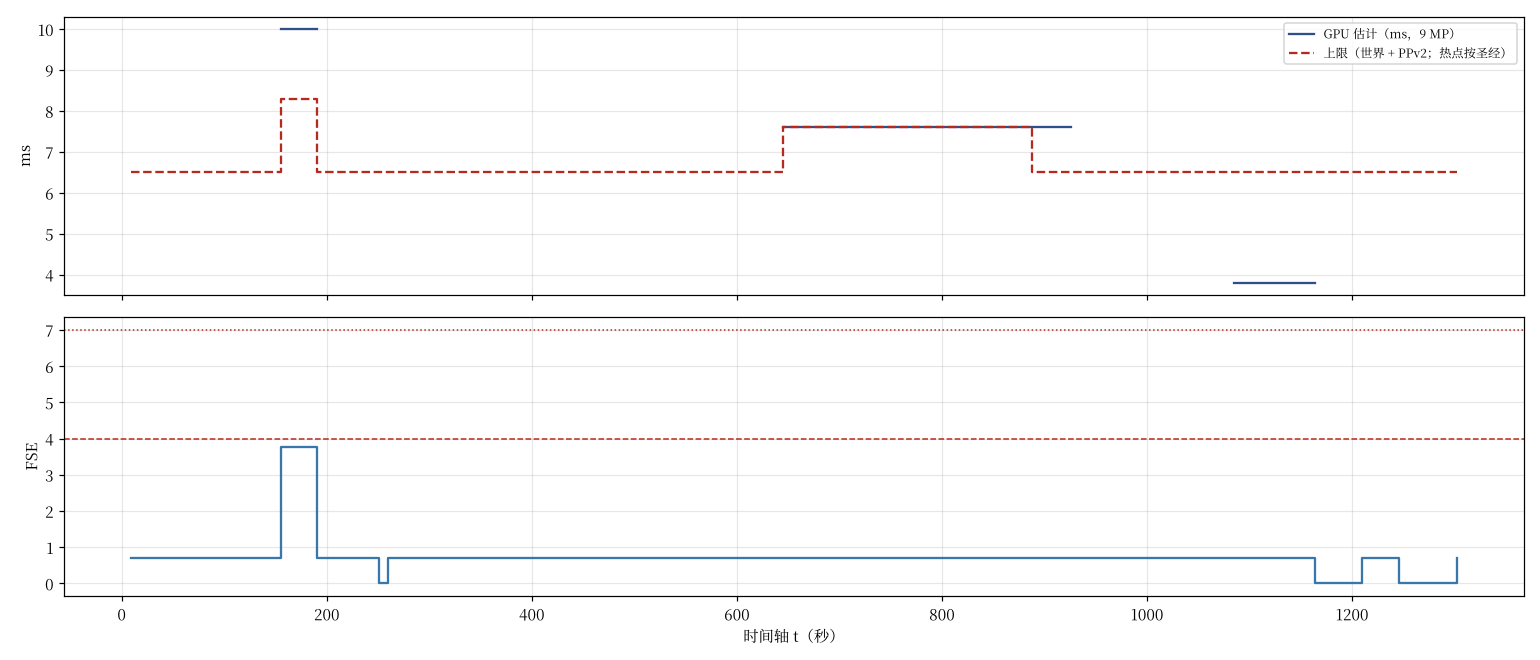
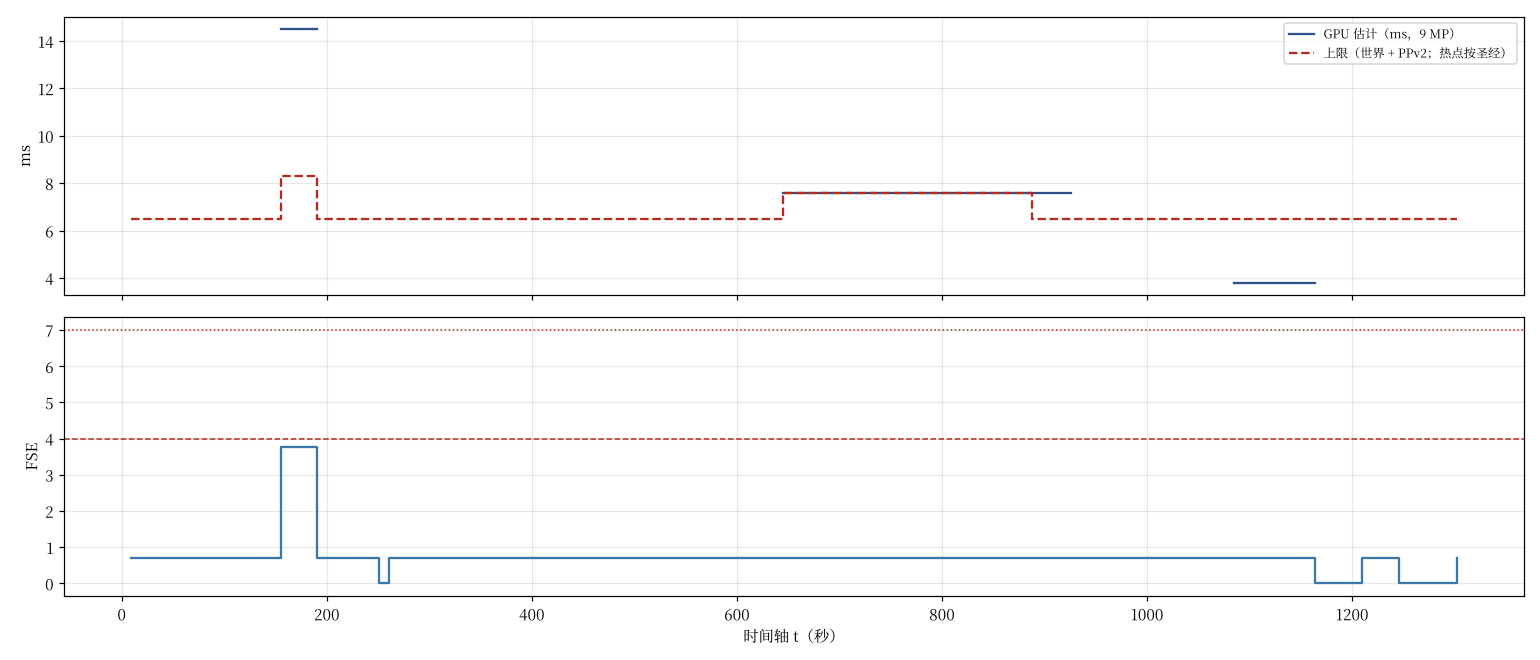
Ledger: package items file; act-4 cloud deck estimate added on top of the gate calibration

diff --git a/Engineering/ledgers/build_ledger_data.py b/Engineering/ledgers/build_ledger_data.py
@@ -78,6 +78,11 @@ for asset in inv['global'].get('assets', []):
     items.append(dict(name=asset.get('name', '?'), owner=asset.get('owner', asset.get('act', '?')), kind='texture', active=[],
                       vram_mb=asset.get('vram_mb') or asset.get('vram_mb_derived'), download_mb=asset.get('download_mb'),
                       status='bible' if asset.get('vram_mb') else 'engineer-estimate', source=asset.get('source', ''), note=asset.get('derivation', asset.get('note', ''))))
+pk = os.path.join(HERE, 'ledger_package_items.json')
+if os.path.exists(pk):
+    extra = json.load(open(pk, encoding='utf-8'))['items']
+    rep = {it.get('replaces') for it in extra if it.get('replaces')}
+    items = [it for it in items if it['name'] not in rep] + extra
 D = dict(
     _about='全片账本的数据。每一项都有 source；status：bible（圣经写的数）/ bible-cap（圣经的上限，不是估计）/ package（包报的）/ measured（本地实测）/ engineer-estimate（总工程师估的，算法写在 source）/ unknown。',
     budgets=dict(world_ms=5.3, world_peak_ms=6.3, ppv2_ms=1.2, fse_sustained=4.0, fse_peak=7.0, layers_per_pixel=8, particles_per_act=5000,

diff --git a/Engineering/ledgers/ledger.py b/Engineering/ledgers/ledger.py
@@ -80,6 +80,8 @@ def table(D):
             cap_ms = hot[0]['world_ms'] + B['ppv2_ms']
         nmiss = sorted({n for k in ('gpu_ms', 'fse') for n in miss[k]})
         est = [it['est_total_ms'] for it in items if it.get('est_total_ms')]
+        if est:   # the calibration estimate covers the measured scene; package items measured / estimated on top of it add
+            est = [max(est) + sum(it['gpu_ms'] for it in items if it.get('gpu_ms') and it.get('status') in ('engineer-estimate', 'package', 'measured') and it.get('kind') != 'world')]
         if miss['gpu_ms']:
             gtxt = '? + %.1f（世界未知）' % s['gpu_ms']
         else:
